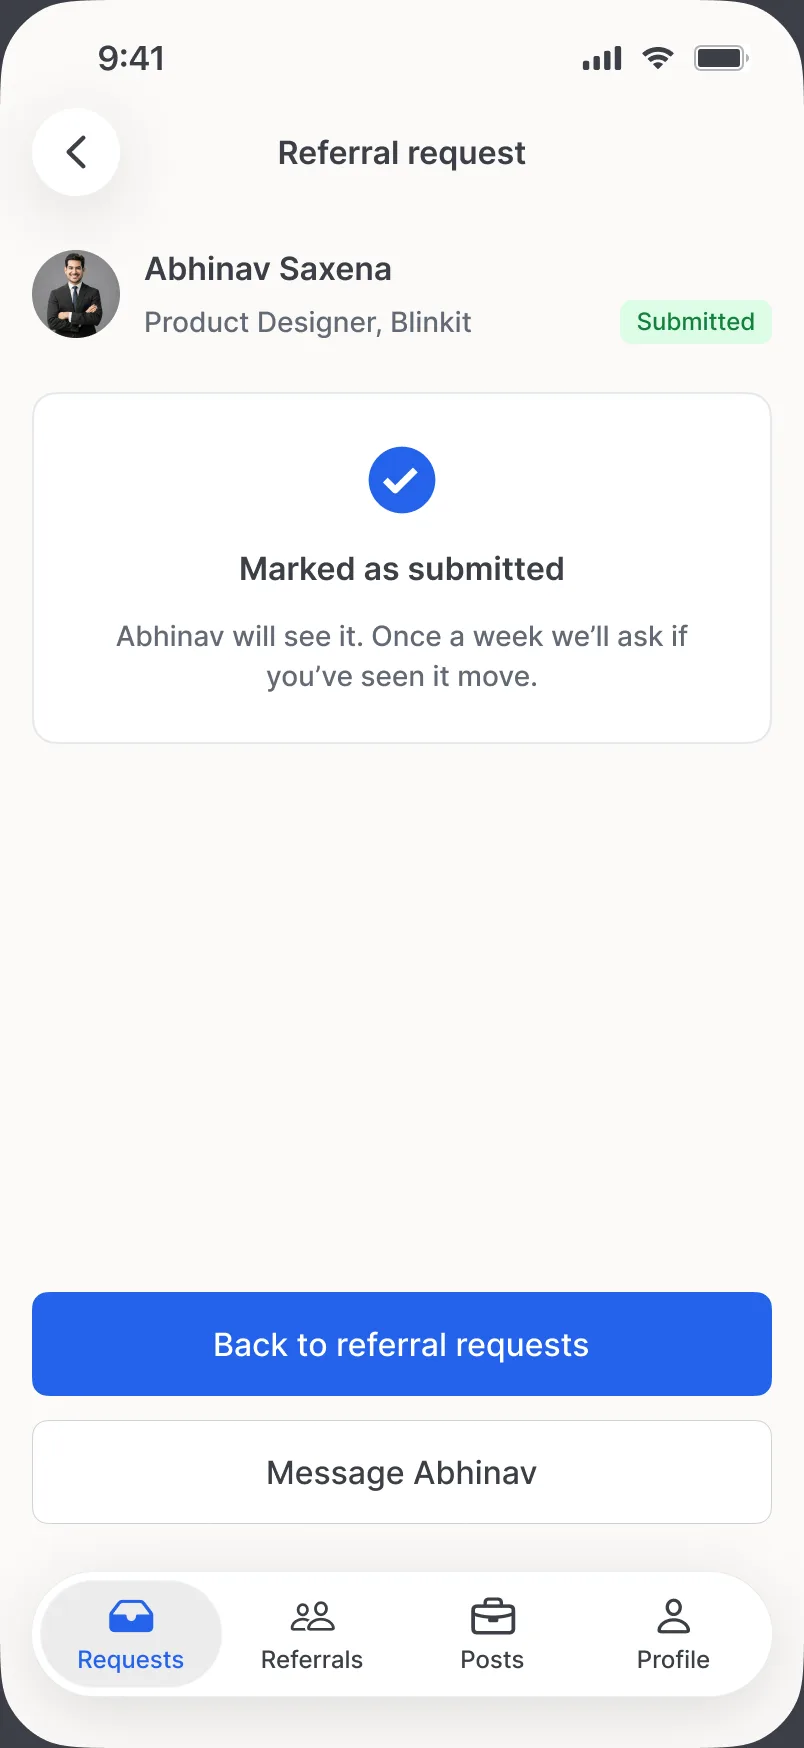
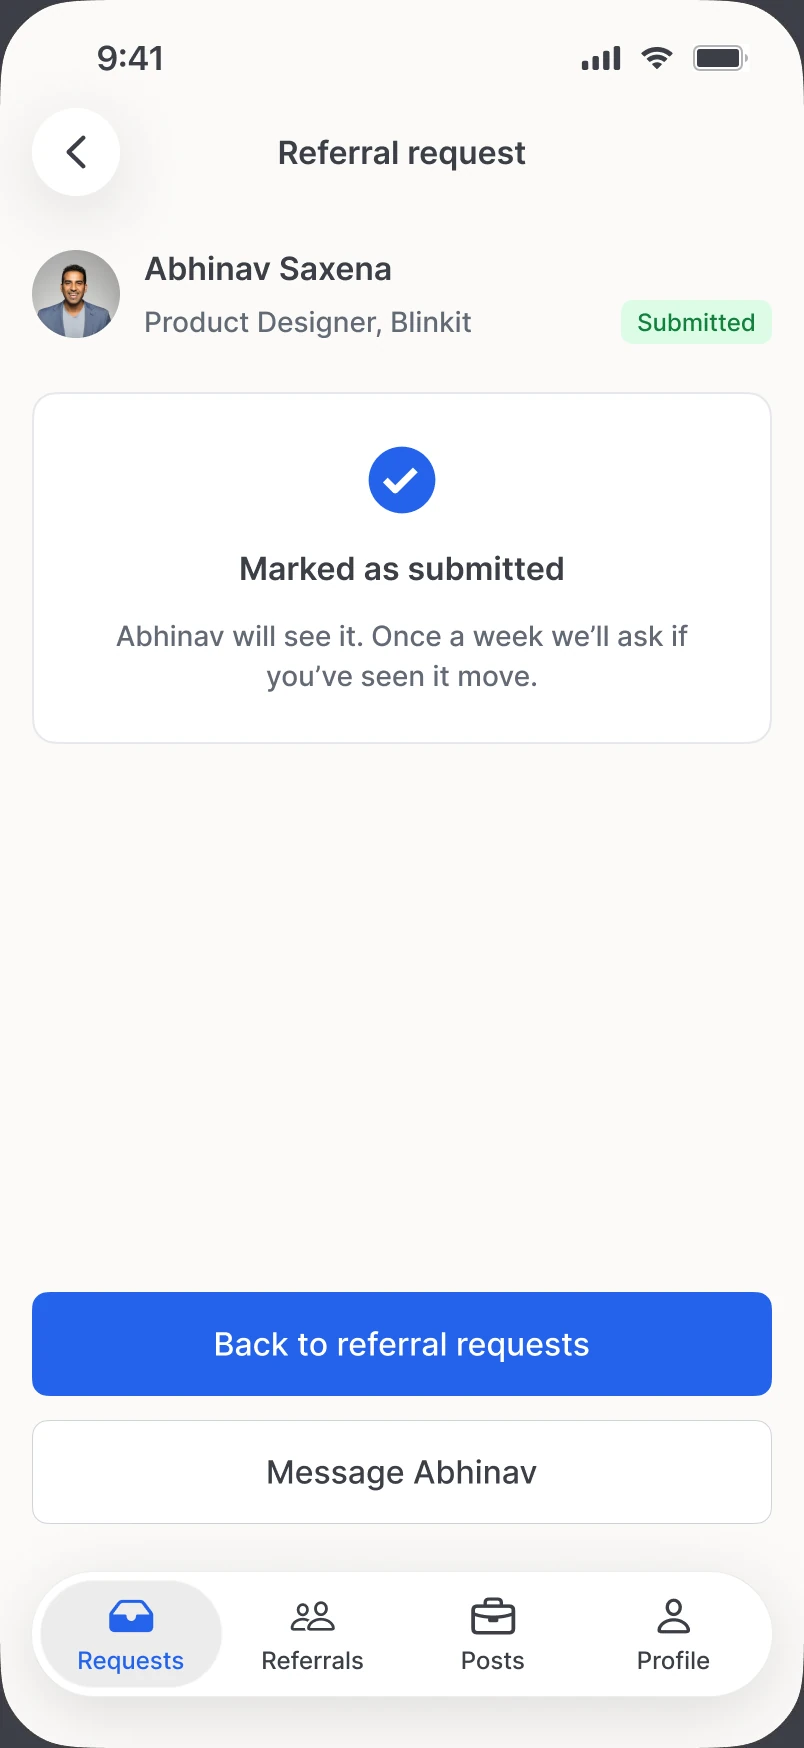
SideDoor case study: screens re-exported with the new photos and the seal badge (verified on localhost)

diff --git a/sidedoor-case-study/LOG.md b/sidedoor-case-study/LOG.md
@@ -3543,3 +3543,7 @@ Changed:
 Not covered: layout, spacing and icon differences. The diff was text only; those need the per-screen node audit.
 Because:   Devansh: two different verification badges, and "Figma still has old DPs... Make Figma screens consistent with the prototype screens."
 Verified:  Figma census and a person-row render; localhost prototype: suggested job, log out sheet, search empty, resume preview.
+
+CHANGE · 2026-09-25 · Case study screens re-exported after the photo and badge fix
+Changed:   10 case study images carried the old Abhinav/Nithin/Advika photos or the old shield: jobs, check, requests, request, emailed, marked, link_before, link_sent, st_offline, and proof (the dimmed request behind the skill sheet). Re-rendered at 2x from Figma (a temporary 2x copy of each frame, deleted after), cut with the same header / footer / offset as CASE_STUDY_VERSION.md, with the old corner colour kept. proof keeps its sheet and gets the new request behind it at the same 60% brightness. job and st_cantsend were checked and left alone: their crops scroll past the photo.
+Verified:  old vs new side by side (only the photo and the badge change); localhost /work/sidedoor, 30 of 30 images load, hero shows the new photo and the seal (after clearing .next, whose image cache kept the old one).
